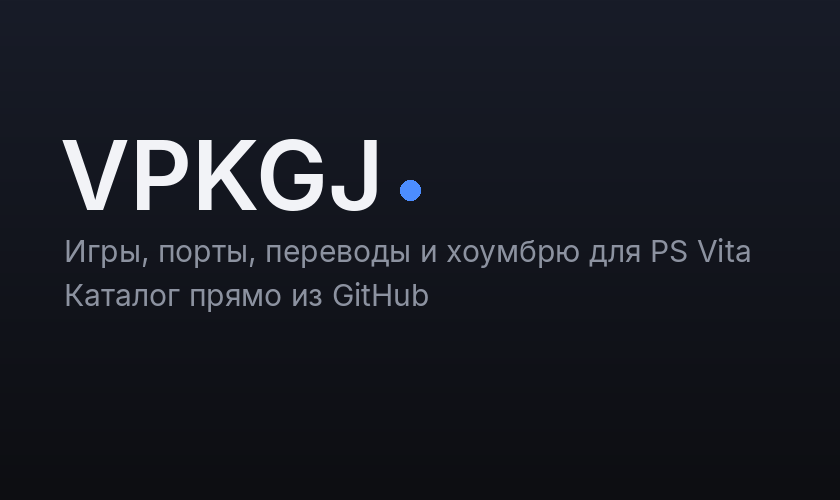
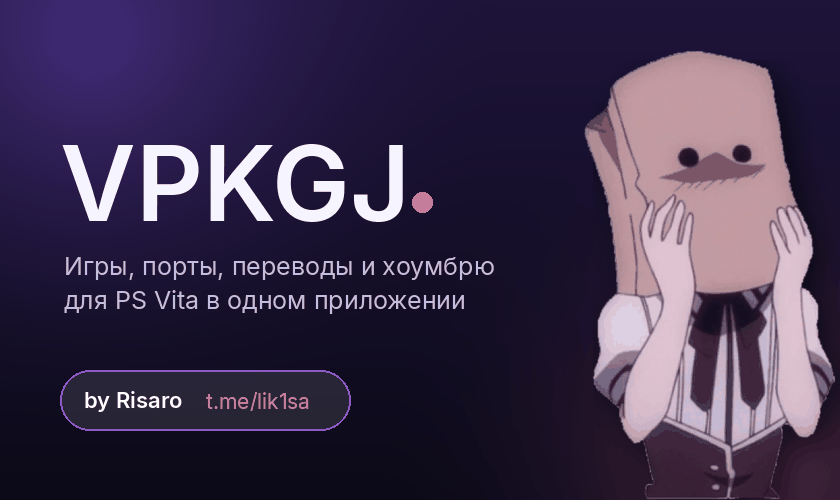
novyi dizain

diff --git a/src/gfx.cpp b/src/gfx.cpp
@@ -13,6 +13,8 @@ static std::string font_data[2];
 static std::map<int, vita2d_font*> fonts;
 
 static vita2d_texture* bg_tex = nullptr;
+static vita2d_texture* mascot_tex = nullptr;
+static vita2d_texture* logo_tex = nullptr;
 
 static void make_background()
 {
@@ -25,13 +27,13 @@ static void make_background()
     struct Glow {
         float x, y, r, cr, cg, cb, a;
     } glows[] = {
-        {60, -20, 260, 76, 141, 255, 0.22f},
-        {470, 290, 300, 150, 90, 255, 0.16f},
-        {300, 120, 200, 40, 200, 180, 0.05f},
+        {40, -30, 280, 139, 92, 246, 0.26f},
+        {490, 300, 320, 244, 114, 182, 0.13f},
+        {300, 130, 220, 90, 70, 200, 0.06f},
     };
     for (int y = 0; y < h; y++) {
         for (int x = 0; x < w; x++) {
-            float r = 13, g = 14, b = 18;
+            float r = 14, g = 12, b = 24;
             for (auto& gl : glows) {
                 float dx = x - gl.x, dy = y - gl.y;
                 float d = sqrtf(dx * dx + dy * dy) / gl.r;
@@ -124,9 +126,32 @@ void placeholder(float x, float y, float w, float h, const std::string& name, in
         text_center(bold, x + w / 2, y + h / 2 + size * 0.36f, size, RGBA8(255, 255, 255, 220), initials(name));
 }
 
+void mascot(float x, float y, float size, float a)
+{
+    if (!mascot_tex)
+        return;
+    float w = vita2d_texture_get_width(mascot_tex), h = vita2d_texture_get_height(mascot_tex);
+    float s = size / std::max(w, h);
+    vita2d_draw_texture_tint_scale(mascot_tex, x + (size - w * s) / 2, y + (size - h * s) / 2, s, s, RGBA8(255, 255, 255, (int)(255 * a)));
+}
+
+void logo(float x, float y, float size)
+{
+    if (!logo_tex)
+        return;
+    float s = size / vita2d_texture_get_width(logo_tex);
+    vita2d_draw_texture_scale(logo_tex, x, y, s, s);
+}
+
 bool init()
 {
     make_background();
+    mascot_tex = vita2d_load_PNG_file("app0:assets/mascot.png");
+    logo_tex = vita2d_load_PNG_file("app0:assets/logo.png");
+    if (mascot_tex)
+        vita2d_texture_set_filters(mascot_tex, SCE_GXM_TEXTURE_FILTER_LINEAR, SCE_GXM_TEXTURE_FILTER_LINEAR);
+    if (logo_tex)
+        vita2d_texture_set_filters(logo_tex, SCE_GXM_TEXTURE_FILTER_LINEAR, SCE_GXM_TEXTURE_FILTER_LINEAR);
     fs::read("app0:assets/Inter-Regular.ttf", font_data[regular]);
     fs::read("app0:assets/Inter-SemiBold.ttf", font_data[bold]);
     if (font_data[bold].empty())

diff --git a/src/gfx.hpp b/src/gfx.hpp
@@ -6,17 +6,18 @@
 #include <vector>
 
 namespace col {
-constexpr unsigned BG = RGBA8(13, 14, 18, 255);
-constexpr unsigned SURFACE = RGBA8(24, 26, 33, 255);
-constexpr unsigned SURFACE2 = RGBA8(36, 39, 49, 255);
-constexpr unsigned LINE = RGBA8(48, 52, 64, 255);
-constexpr unsigned TEXT = RGBA8(242, 243, 247, 255);
-constexpr unsigned MUTED = RGBA8(140, 146, 160, 255);
-constexpr unsigned ACCENT = RGBA8(76, 141, 255, 255);
-constexpr unsigned ACCENT_DIM = RGBA8(76, 141, 255, 60);
-constexpr unsigned GREEN = RGBA8(52, 199, 140, 255);
-constexpr unsigned ORANGE = RGBA8(255, 159, 67, 255);
-constexpr unsigned RED = RGBA8(255, 99, 99, 255);
+constexpr unsigned BG = RGBA8(14, 12, 24, 255);
+constexpr unsigned SURFACE = RGBA8(27, 24, 42, 255);
+constexpr unsigned SURFACE2 = RGBA8(41, 36, 62, 255);
+constexpr unsigned LINE = RGBA8(56, 50, 82, 255);
+constexpr unsigned TEXT = RGBA8(244, 242, 252, 255);
+constexpr unsigned MUTED = RGBA8(150, 144, 176, 255);
+constexpr unsigned ACCENT = RGBA8(139, 92, 246, 255);
+constexpr unsigned ACCENT2 = RGBA8(244, 114, 182, 255);
+constexpr unsigned ACCENT_DIM = RGBA8(139, 92, 246, 60);
+constexpr unsigned GREEN = RGBA8(52, 211, 153, 255);
+constexpr unsigned ORANGE = RGBA8(251, 170, 80, 255);
+constexpr unsigned RED = RGBA8(248, 113, 113, 255);
 }
 
 enum Btn { BTN_CROSS, BTN_CIRCLE, BTN_TRIANGLE, BTN_SQUARE, BTN_L, BTN_R, BTN_START, BTN_SELECT };
@@ -57,5 +58,7 @@ void placeholder_round(float x, float y, float w, float h, float r, const std::s
 void button(Btn b, float x, float y, float size);
 float hint(float x, float y, Btn b, const std::string& label);
 void spinner(float x, float y, float r, unsigned c);
+void mascot(float x, float y, float size, float a);
+void logo(float x, float y, float size);
 
 }
